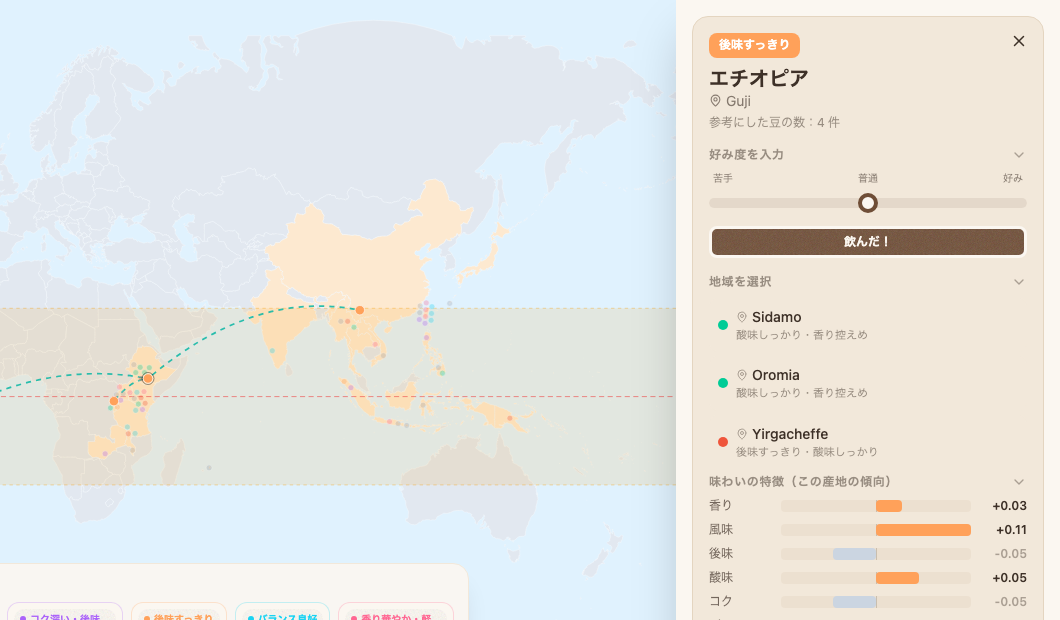
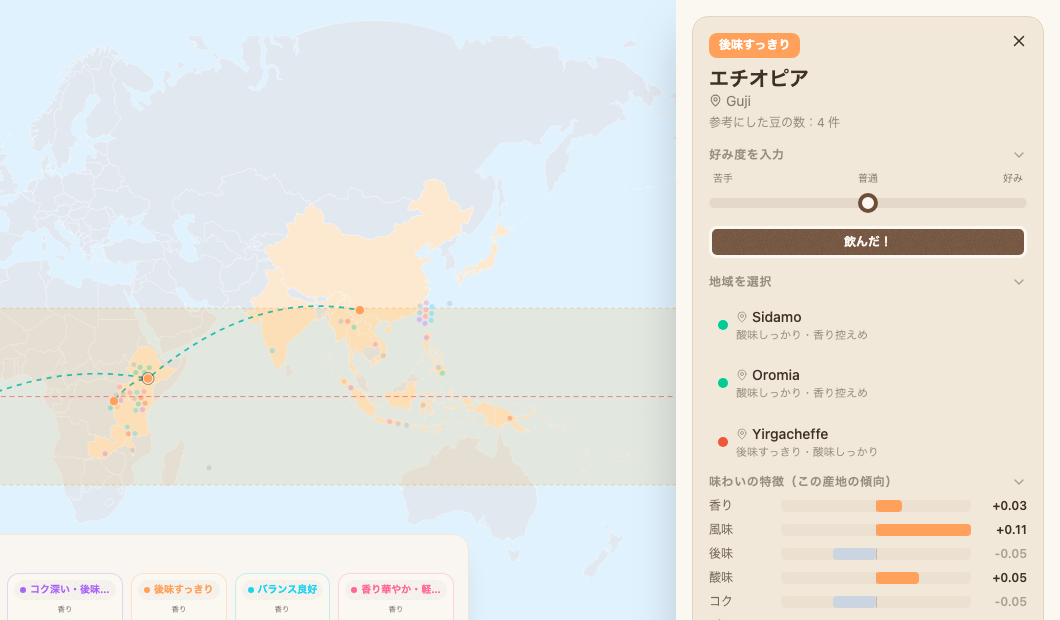
凡例の追加

Changed region(s): [[0.0, 0.8581, 0.467, 1.0]]

diff --git a/src/components/WorldMap.jsx b/src/components/WorldMap.jsx
@@ -10,6 +10,14 @@ import worldTopoJson from "../data/world-50m.json";
 import { clusterColor } from "../lib/clusters";
 import { coffeeData, nearestByTaste } from "../lib/coffeeData";
 import { translateCountry } from "../lib/countryNames";
+import {
+  BELT_COLOR,
+  BELT_FILL_OPACITY,
+  BELT_LAT,
+  BELT_LINE_OPACITY,
+  EQUATOR_COLOR,
+  EQUATOR_LINE_OPACITY,
+} from "../lib/mapStyle";
 
 import MapLegend from "./MapLegend";
 
@@ -356,12 +364,11 @@ export default function WorldMap({
   const toggleCluster = (name) =>
     setActiveCluster((prev) => (prev === name ? null : name));
 
-  // コーヒーベルト(南北回帰線±23.4°)と赤道の描画用Y座標。
+  // コーヒーベルト(南北 BELT_LAT 度)と赤道の描画用Y座標。
   // メルカトル図法では緯線は水平なので、経度は任意でよい。
-  const TROPIC = 25;
   const yEquator = projection([centerLng, 0])?.[1] ?? 0;
-  const yCancer = projection([centerLng, TROPIC])?.[1] ?? 0; // 北回帰線
-  const yCapricorn = projection([centerLng, -TROPIC])?.[1] ?? 0; // 南回帰線
+  const yBeltNorth = projection([centerLng, BELT_LAT])?.[1] ?? 0;
+  const yBeltSouth = projection([centerLng, -BELT_LAT])?.[1] ?? 0;
 
   return (
     <div ref={containerRef} className="w-full h-full relative">
@@ -408,37 +415,37 @@ export default function WorldMap({
                   );
                 })}
 
-                {/* コーヒーベルト(南北回帰線の間)を薄く塗り、回帰線と赤道を引く。
+                {/* コーヒーベルト(南北 BELT_LAT 度の間)を薄く塗り、その境界線と赤道を引く。
                   クリックを邪魔しないよう pointerEvents は無効。 */}
                 <rect
                   x={0}
-                  y={yCancer}
+                  y={yBeltNorth}
                   width={worldWidth}
-                  height={yCapricorn - yCancer}
-                  fill="#f59e0b"
-                  opacity={0.12}
+                  height={yBeltSouth - yBeltNorth}
+                  fill={BELT_COLOR}
+                  opacity={BELT_FILL_OPACITY}
                   pointerEvents="none"
                 />
                 <line
                   x1={0}
                   x2={worldWidth}
-                  y1={yCancer}
-                  y2={yCancer}
-                  stroke="#f59e0b"
+                  y1={yBeltNorth}
+                  y2={yBeltNorth}
+                  stroke={BELT_COLOR}
                   strokeWidth={0.8}
                   strokeDasharray="4 4"
-                  opacity={0.55}
+                  opacity={BELT_LINE_OPACITY}
                   pointerEvents="none"
                 />
                 <line
                   x1={0}
                   x2={worldWidth}
-                  y1={yCapricorn}
-                  y2={yCapricorn}
-                  stroke="#f59e0b"
+                  y1={yBeltSouth}
+                  y2={yBeltSouth}
+                  stroke={BELT_COLOR}
                   strokeWidth={0.8}
                   strokeDasharray="4 4"
-                  opacity={0.55}
+                  opacity={BELT_LINE_OPACITY}
                   pointerEvents="none"
                 />
                 <line
@@ -446,10 +453,10 @@ export default function WorldMap({
                   x2={worldWidth}
                   y1={yEquator}
                   y2={yEquator}
-                  stroke="#ef4444"
+                  stroke={EQUATOR_COLOR}
                   strokeWidth={1}
                   strokeDasharray="6 4"
-                  opacity={0.7}
+                  opacity={EQUATOR_LINE_OPACITY}
                   pointerEvents="none"
                 />
               </g>

diff --git a/src/components/MapLegend.jsx b/src/components/MapLegend.jsx
@@ -9,6 +9,14 @@ import {
   TASTE_AXES,
 } from "../lib/clusters";
 import { coffeeData } from "../lib/coffeeData";
+import {
+  BELT_COLOR,
+  BELT_FILL_OPACITY,
+  BELT_LAT,
+  BELT_LINE_OPACITY,
+  EQUATOR_COLOR,
+  EQUATOR_LINE_OPACITY,
+} from "../lib/mapStyle";
 
 const legendClusters = (() => {
   const set = new Set(coffeeData.map((d) => d.clusterName));
@@ -212,6 +220,69 @@ function ClusterRadarChart({ devs, color, selected }) {
   );
 }
 
+// 地図に引いてある緯度線の凡例。色と破線パターンは地図と同じものを使う。
+// ただし透明度は上げる。地図では広い面積に敷くので薄くてよいが、
+// 26pxの見本を同じ薄さで塗ると白背景に埋もれて見えないため。
+const SWATCH_FILL_OPACITY = Math.min(1, BELT_FILL_OPACITY * 2.5);
+const SWATCH_LINE_OPACITY = Math.min(1, BELT_LINE_OPACITY * 1.6);
+const SWATCH_EQUATOR_OPACITY = Math.min(1, EQUATOR_LINE_OPACITY * 1.3);
+
+function MapLinesLegend() {
+  return (
+    <div className="flex flex-wrap items-center gap-x-4 gap-y-1 border-t border-base-200 px-1 pt-1.5">
+      <span className="flex items-center gap-1.5 text-[11px] text-base-content/70">
+        <svg width="26" height="14" aria-hidden="true" className="shrink-0">
+          <rect
+            x="0"
+            y="2.5"
+            width="26"
+            height="9"
+            fill={BELT_COLOR}
+            opacity={SWATCH_FILL_OPACITY}
+          />
+          <line
+            x1="0"
+            x2="26"
+            y1="3"
+            y2="3"
+            stroke={BELT_COLOR}
+            strokeWidth="1"
+            strokeDasharray="4 4"
+            opacity={SWATCH_LINE_OPACITY}
+          />
+          <line
+            x1="0"
+            x2="26"
+            y1="11"
+            y2="11"
+            stroke={BELT_COLOR}
+            strokeWidth="1"
+            strokeDasharray="4 4"
+            opacity={SWATCH_LINE_OPACITY}
+          />
+        </svg>
+        コーヒーベルト（南北{BELT_LAT}度）
+      </span>
+
+      <span className="flex items-center gap-1.5 text-[11px] text-base-content/70">
+        <svg width="26" height="14" aria-hidden="true" className="shrink-0">
+          <line
+            x1="0"
+            x2="26"
+            y1="7"
+            y2="7"
+            stroke={EQUATOR_COLOR}
+            strokeWidth="1.2"
+            strokeDasharray="6 4"
+            opacity={SWATCH_EQUATOR_OPACITY}
+          />
+        </svg>
+        赤道
+      </span>
+    </div>
+  );
+}
+
 const MapLegend = forwardRef(function MapLegend(
   { activeCluster, toggleCluster, setActiveCluster },
   ref,
@@ -316,6 +387,8 @@ const MapLegend = forwardRef(function MapLegend(
           })}
         </div>
       )}
+
+      {!isCollapsed && <MapLinesLegend />}
     </div>
   );
 });

diff --git a/src/components/StartupGuide.jsx b/src/components/StartupGuide.jsx
@@ -3,7 +3,7 @@ import { useEffect, useState } from "react";
 const PAGES = [
   {
     title: "地図の見かた",
-    text: "世界のコーヒー豆の味覚データを、産地ごとに地図へ並べたサイトです。\n点が産地（国と地域）、点の色が味わいのタイプを表します。\n色が同じ産地は、味の傾向が似ています。\n横に伸びるオレンジの帯は、産地が集中している\nコーヒーベルト（南北の回帰線にはさまれた範囲）です。",
+    text: "世界のコーヒー豆の味覚データを、産地ごとに地図へ並べたサイトです。\n点が産地（国と地域）、点の色が味わいのタイプを表します。\n色が同じ産地は、味の傾向が似ています。\n横に伸びるオレンジの帯は、産地が集中している\nコーヒーベルト（南北25度にはさまれた範囲）です。",
     image: "/images/image_map_concept.png",
   },
   {

diff --git a/src/lib/mapStyle.js b/src/lib/mapStyle.js
@@ -1,0 +1,11 @@
+// 地図に描く緯度線の見た目。地図(WorldMap)と凡例(MapLegend)で同じ値を使う。
+
+// コーヒーベルトとして塗る範囲（南北の緯度）
+export const BELT_LAT = 25;
+
+export const BELT_COLOR = "#f59e0b";
+export const BELT_FILL_OPACITY = 0.12;
+export const BELT_LINE_OPACITY = 0.55;
+
+export const EQUATOR_COLOR = "#ef4444";
+export const EQUATOR_LINE_OPACITY = 0.7;
